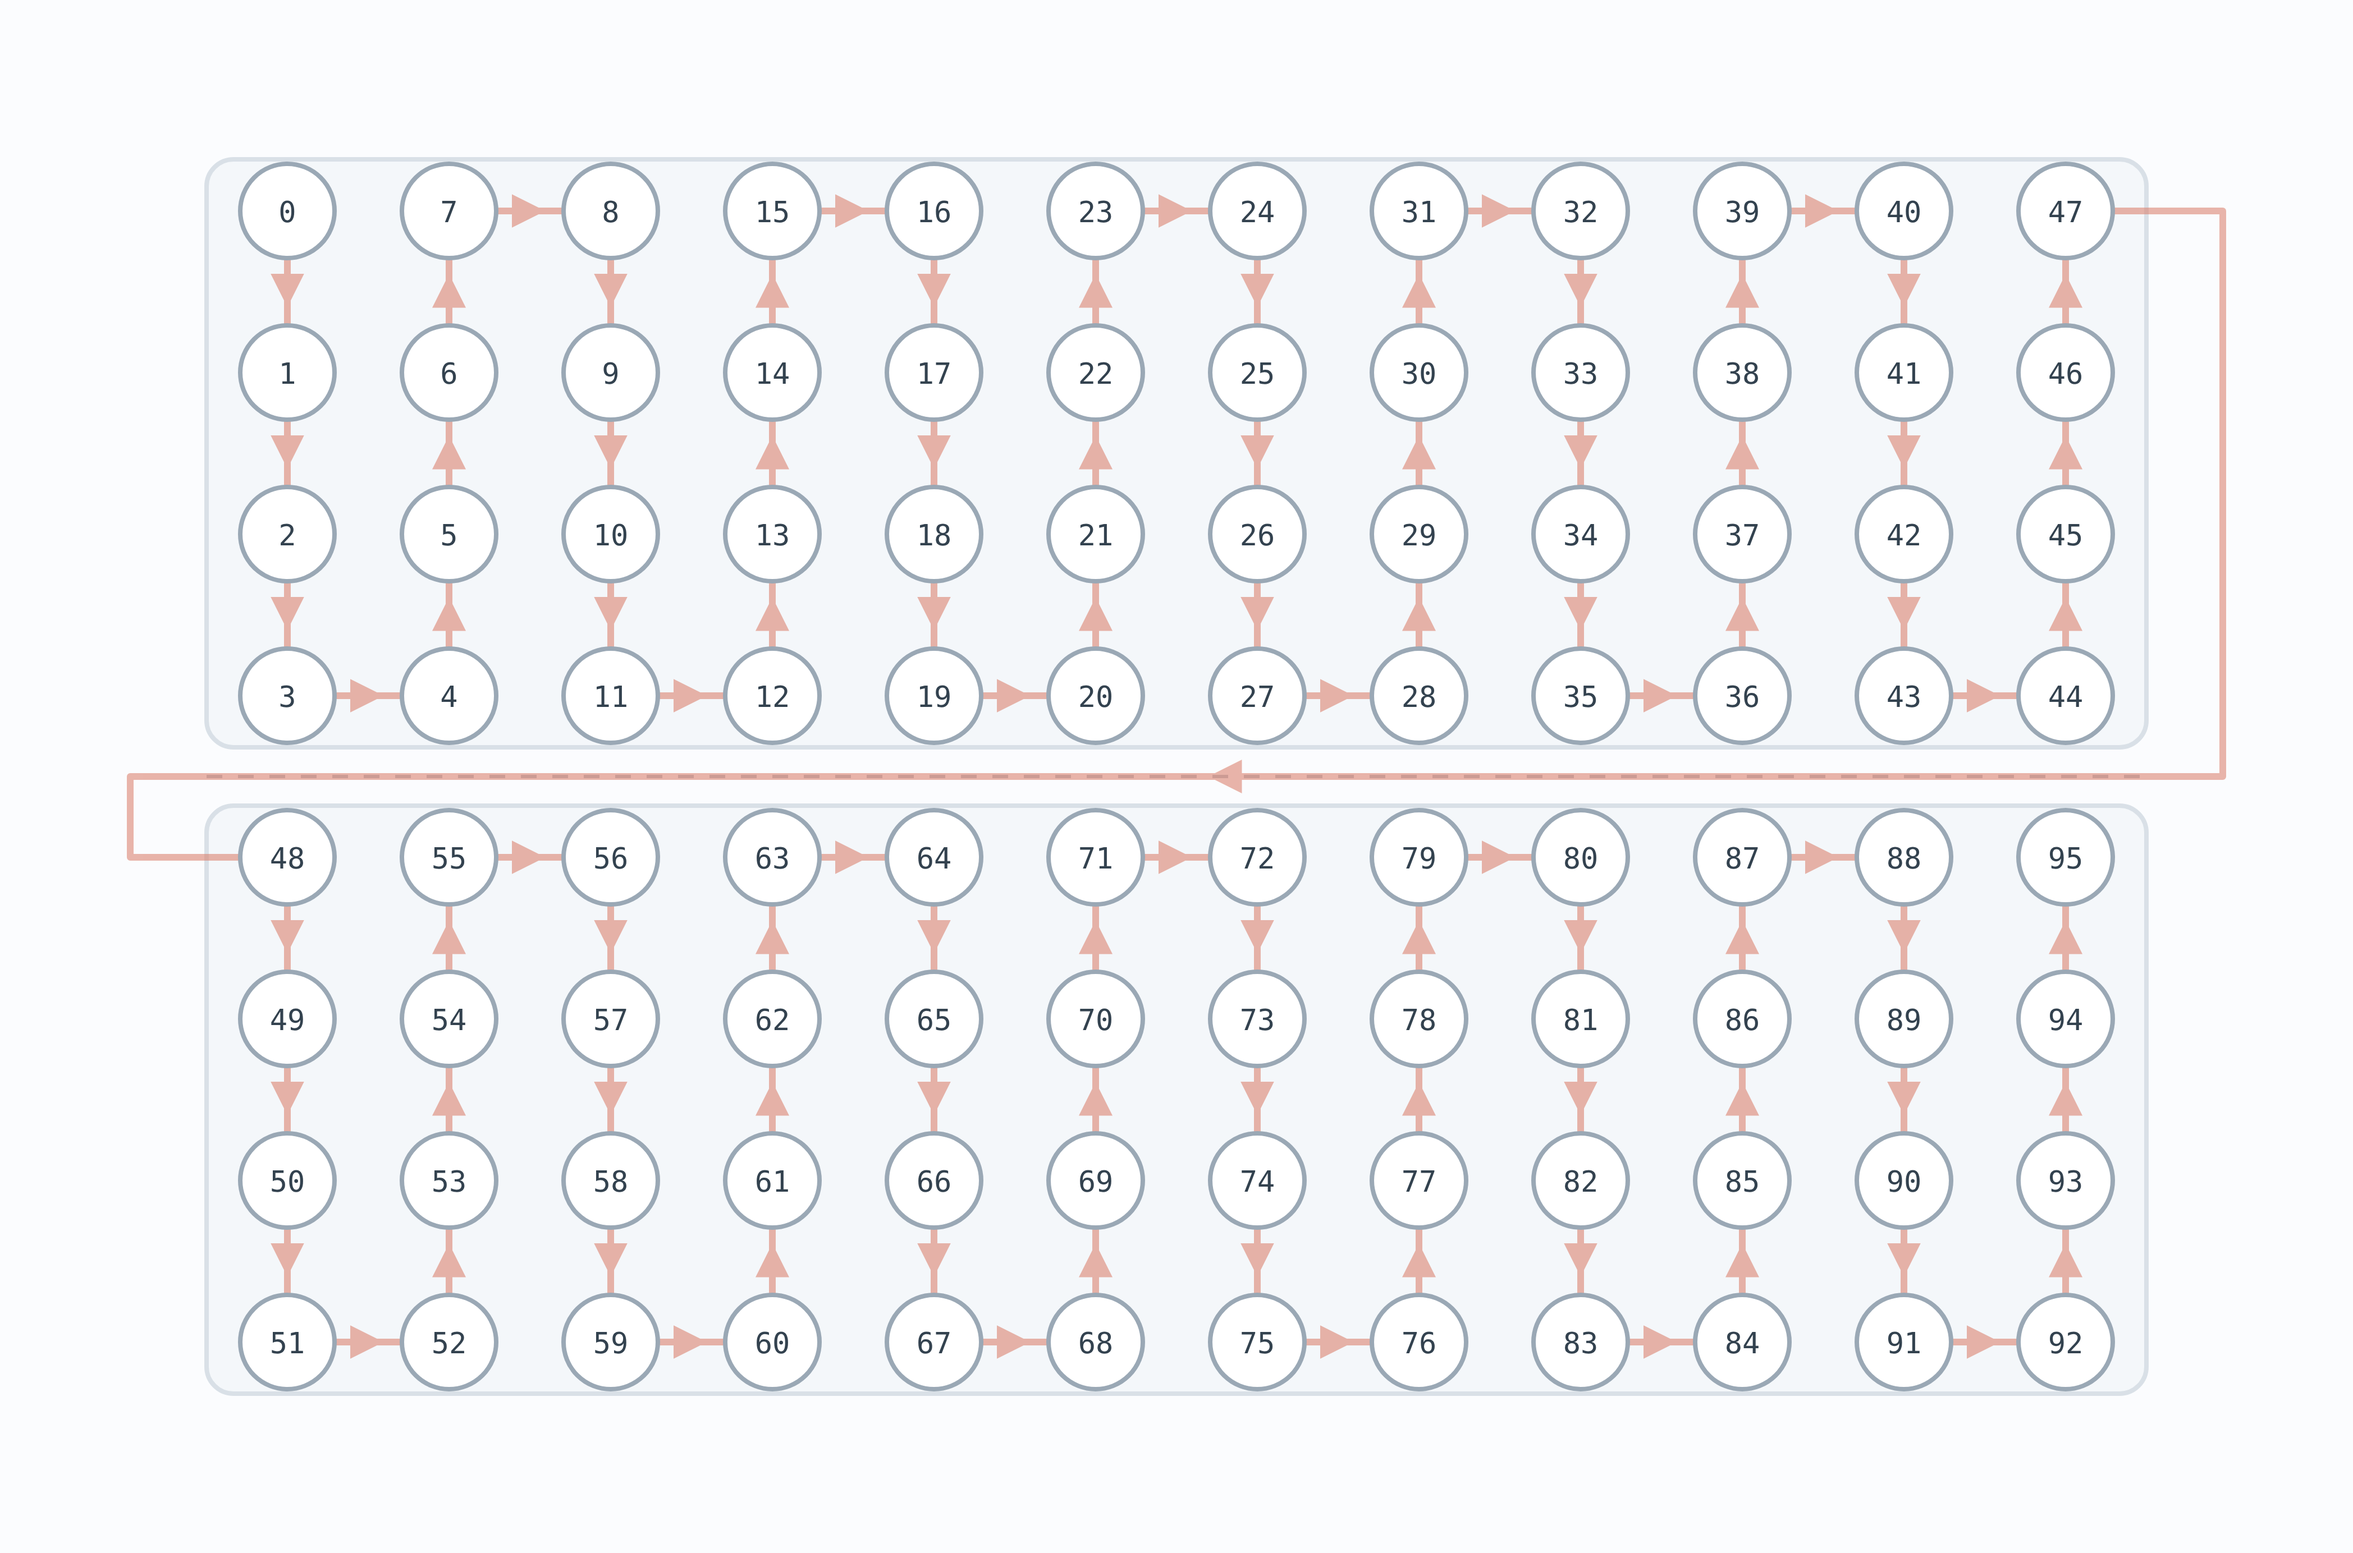
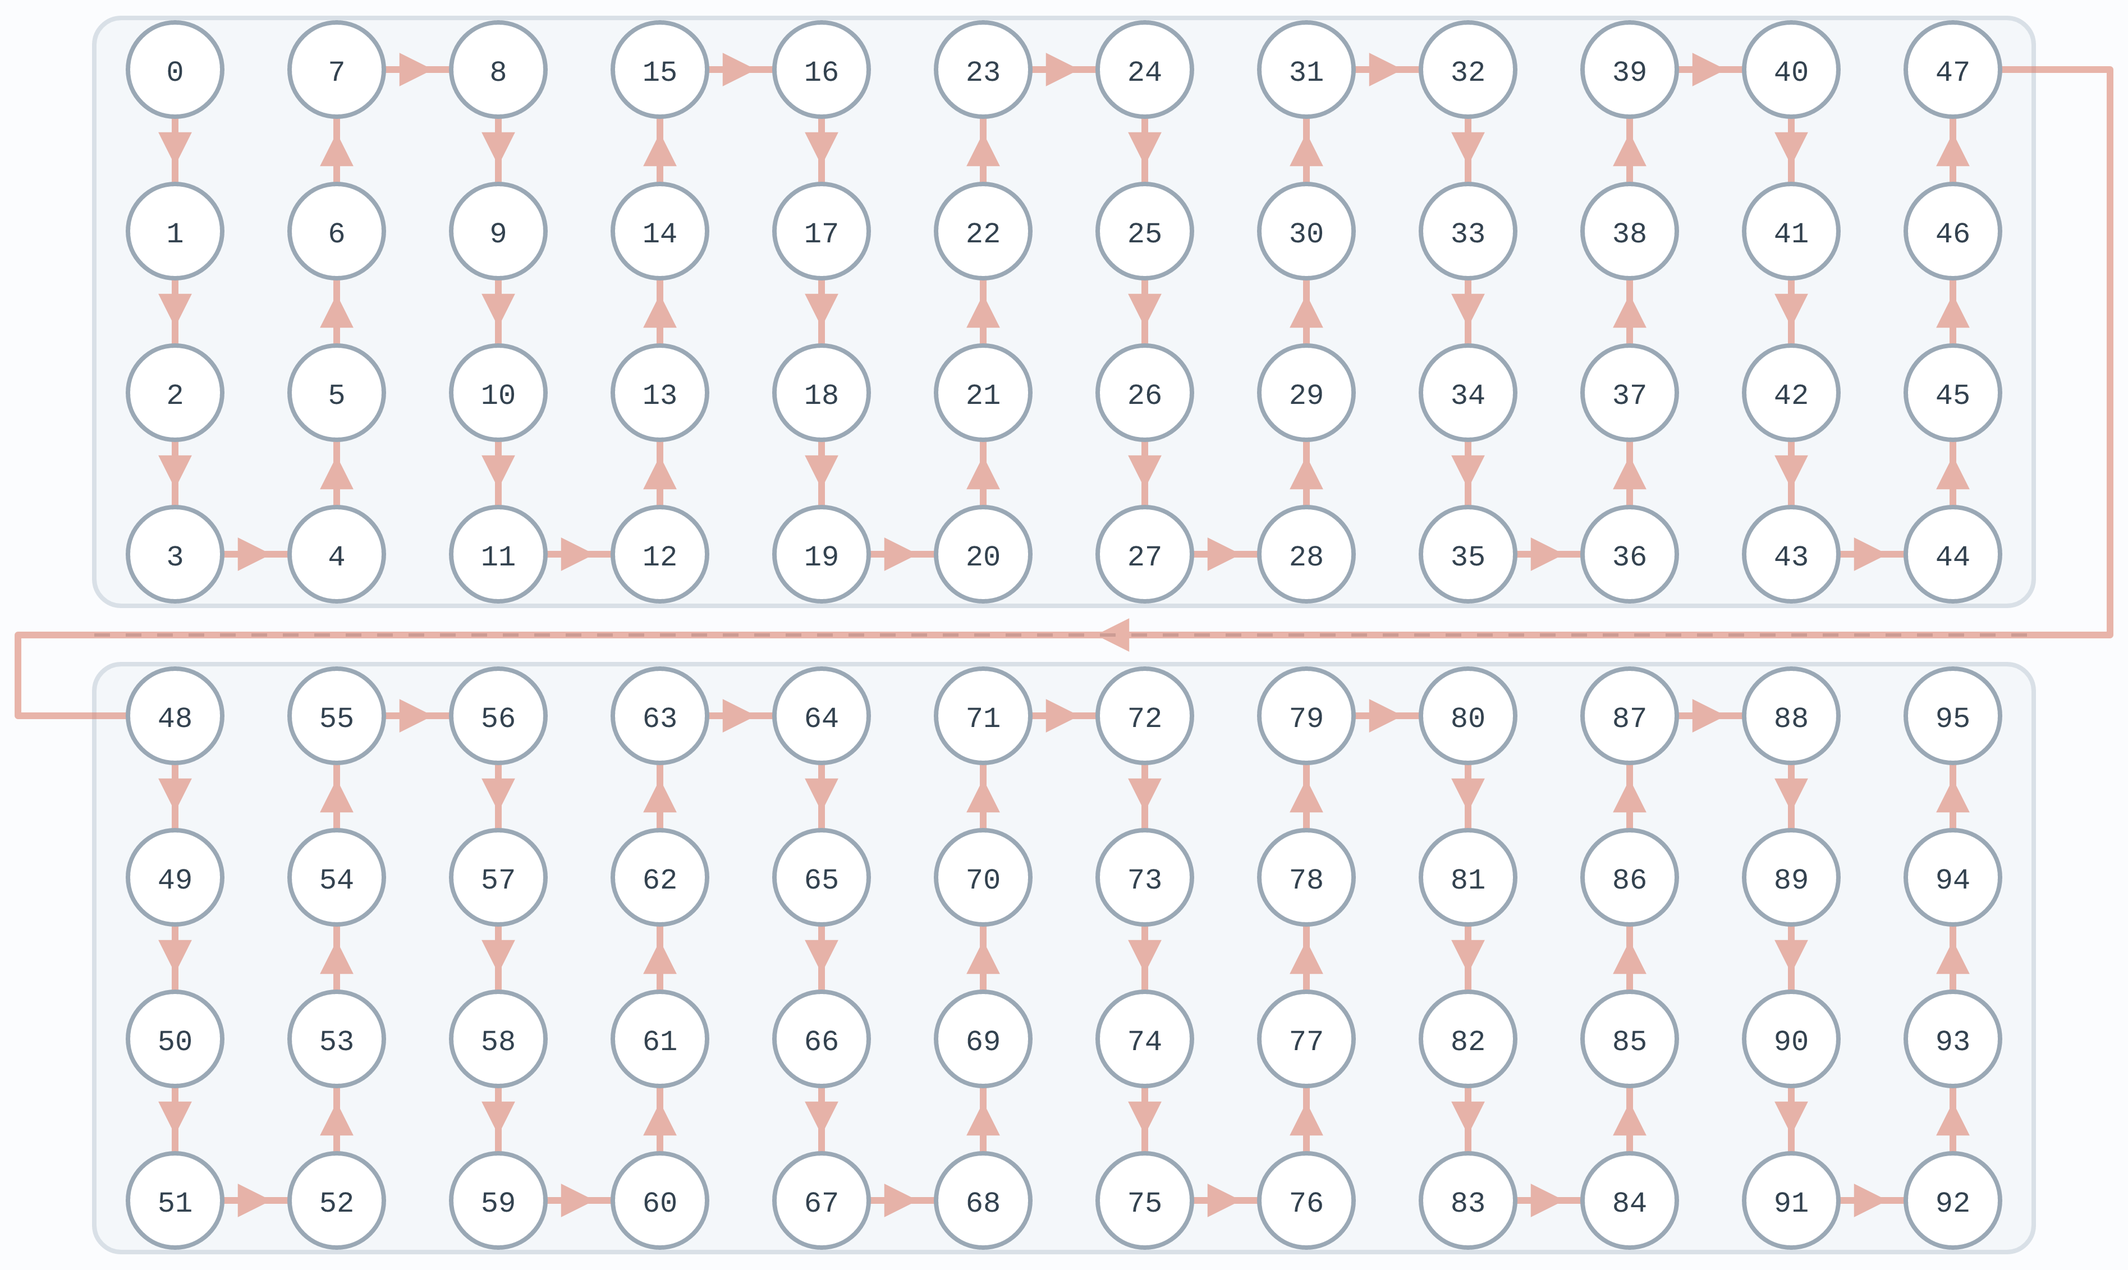
Update LED layout SVG dimensions and rendering parameters
- Adjusted the SVG width and height attributes in `led_layout_12x8_serial.svg` for better scaling.
- Modified the viewBox parameters in the SVG rendering function in `svg_layouts.rs` to accommodate new padding and layout adjustments.
- Introduced a new constant `CONTENT_PADDING` to manage spacing around the LED layout.

Changed region(s): [[0.0, 0.0, 0.9958, 0.9894], [0.0311, 0.0309, 0.0622, 0.0618]]

diff --git a/crates/device-envoy-core/tests/svg_layouts.rs b/crates/device-envoy-core/tests/svg_layouts.rs
@@ -63,6 +63,7 @@ fn render_led_layout_svg<const N: usize, const W: usize, const H: usize>(
     const LED_RADIUS: usize = 21;
     const OUTER_PADDING: usize = 58;
     const CABLE_GUTTER: usize = 34;
+    const CONTENT_PADDING: usize = 8;
 
     let panel_left = OUTER_PADDING + CABLE_GUTTER;
     let panel_top = OUTER_PADDING;
@@ -72,11 +73,15 @@ fn render_led_layout_svg<const N: usize, const W: usize, const H: usize>(
     let panel_height = led_layout.height() * CELL_SIZE;
     let svg_width = panel_width + (OUTER_PADDING + CABLE_GUTTER) * 2;
     let svg_height = panel_height + OUTER_PADDING * 2;
+    let viewbox_left = panel_left - CABLE_GUTTER - CONTENT_PADDING;
+    let viewbox_top = panel_top + PANEL_PADDING / 2 - CONTENT_PADDING;
+    let viewbox_width = panel_width + CABLE_GUTTER * 2 + CONTENT_PADDING * 2;
+    let viewbox_height = panel_height - PANEL_PADDING + CONTENT_PADDING * 2;
 
     let mut svg = String::new();
     writeln!(
         svg,
-        r#"<svg xmlns="http://www.w3.org/2000/svg" viewBox="0 0 {svg_width} {svg_height}" role="img" aria-labelledby="title description">"#
+        r#"<svg xmlns="http://www.w3.org/2000/svg" width="{viewbox_width}" height="{viewbox_height}" viewBox="{viewbox_left} {viewbox_top} {viewbox_width} {viewbox_height}" role="img" aria-labelledby="title description">"#
     )?;
     writeln!(
         svg,
